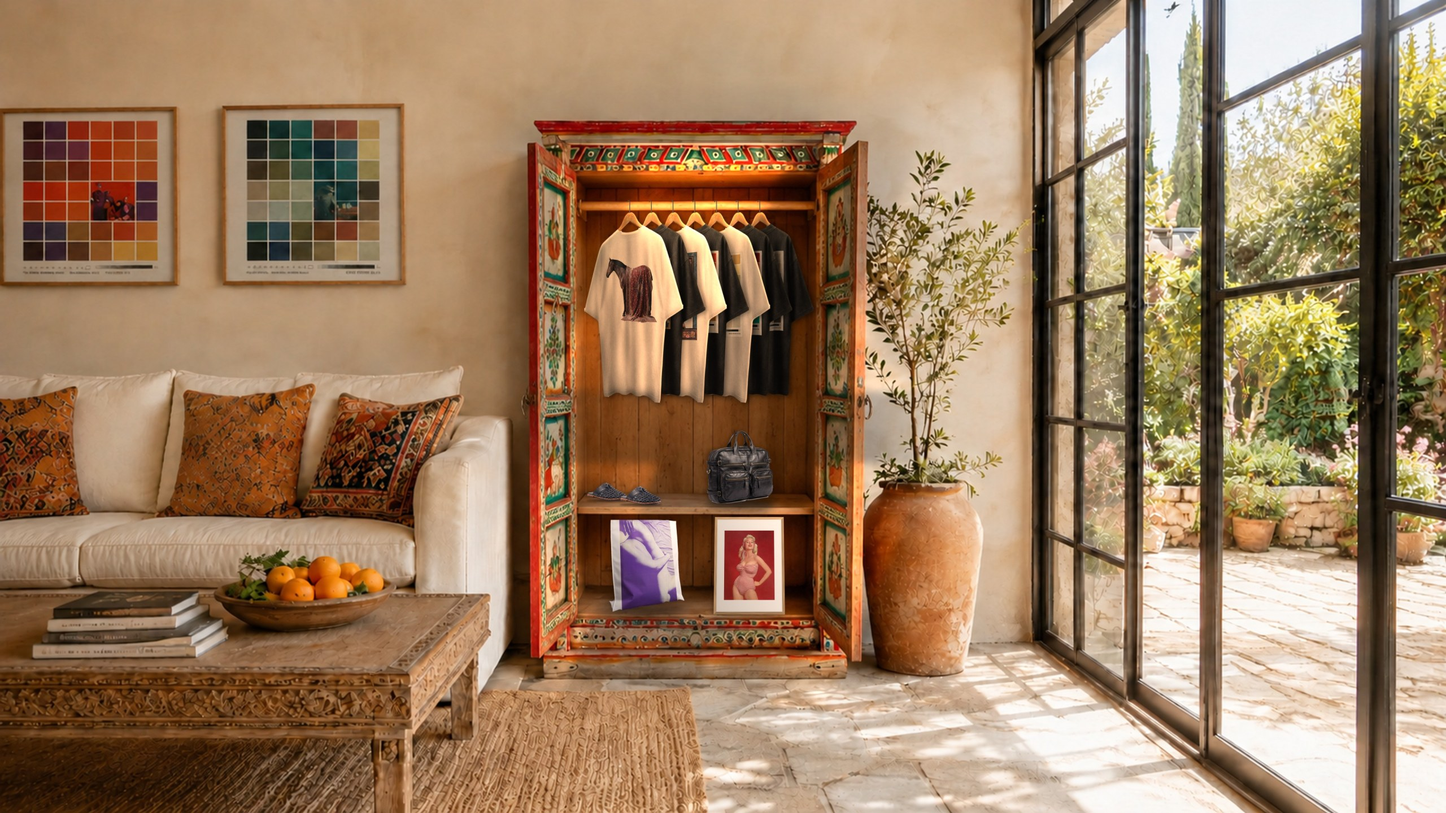
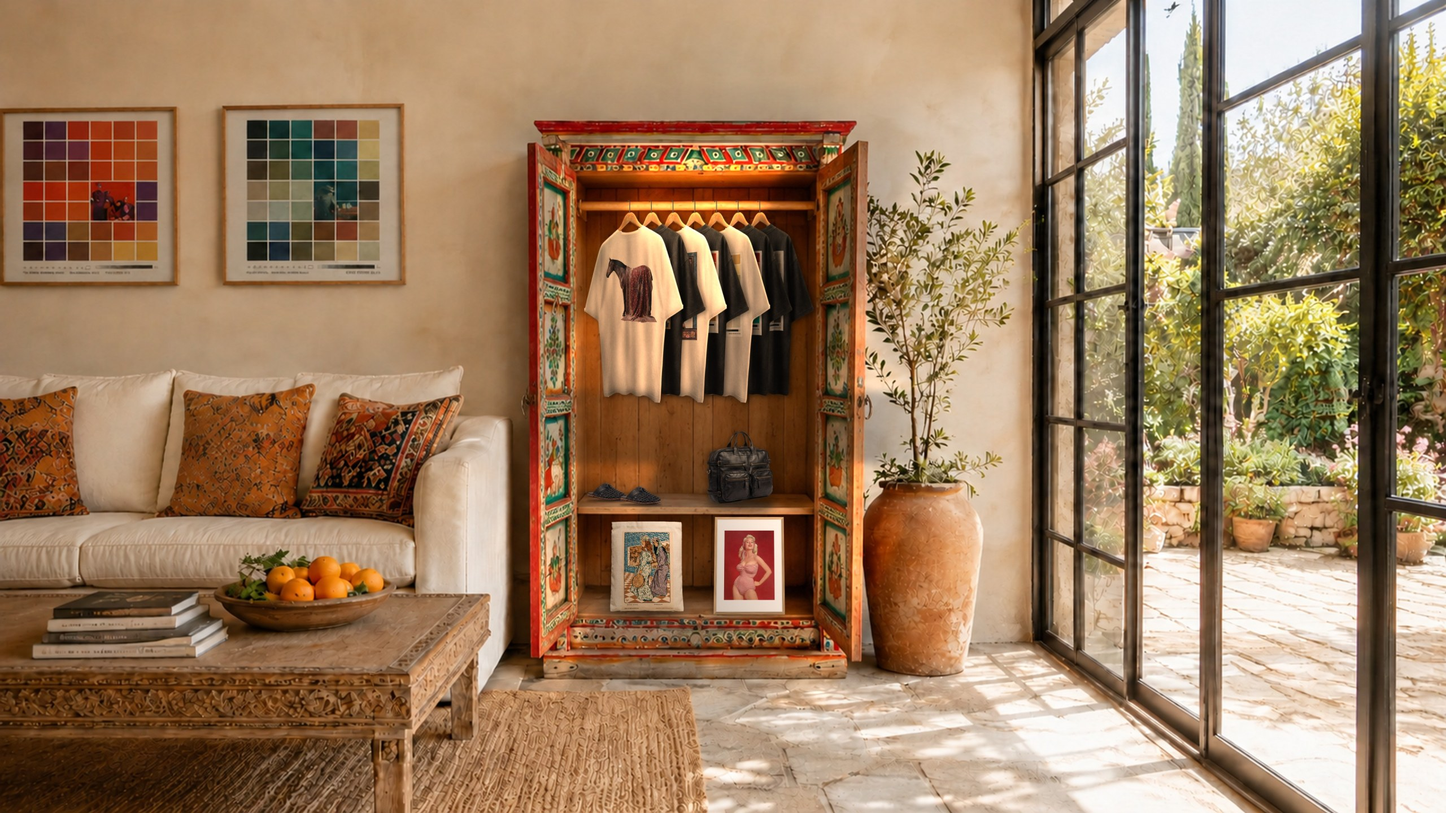
Clean Courier cutout + 4-view pull-out, darker warm-graded shoes, Schéhérazade tote in the wardrobe
Claude-Session: https://claude.ai/code/session_017Ju3v1Wm9qiCWbJhr3avMd

Changed region(s): [[0.4062, 0.5938, 0.5, 0.75], [0.5, 0.5312, 0.5312, 0.5938]]

diff --git a/index.html b/index.html
@@ -80,7 +80,7 @@
     </div>
   </div>
 </section>
-<script>window.WR_META={"horse": {"i": 0, "x": 0.09375, "y": 0.13815789473684212, "w": 0.34649122807017546, "h": 0.38095238095238093}, "mughal": {"i": 1, "x": 0.17050438596491227, "y": 0.13815789473684212, "w": 0.3470394736842105, "h": 0.3668546365914787}, "roses": {"i": 2, "x": 0.2450657894736842, "y": 0.13815789473684212, "w": 0.3470394736842105, "h": 0.3806390977443609}, "budapest": {"i": 3, "x": 0.3223684210526316, "y": 0.13815789473684212, "w": 0.3470394736842105, "h": 0.36654135338345867}, "nighthawks": {"i": 4, "x": 0.3969298245614035, "y": 0.13815789473684212, "w": 0.34649122807017546, "h": 0.3806390977443609}, "vertigo": {"i": 5, "x": 0.47368421052631576, "y": 0.13815789473684212, "w": 0.3470394736842105, "h": 0.3668546365914787}, "wave": {"i": 6, "x": 0.5493421052631579, "y": 0.13815789473684212, "w": 0.3470394736842105, "h": 0.3668546365914787}, "shoes": {"i": 7, "x": 0.10416666666666667, "y": 0.6785714285714286, "w": 0.25877192982456143, "h": 0.043859649122807015}, "tote": {"i": 8, "x": 0.18201754385964913, "y": 0.7528195488721805, "w": 0.26206140350877194, "h": 0.18327067669172933}, "print": {"i": 9, "x": 0.5455043859649122, "y": 0.7468671679197995, "w": 0.2505482456140351, "h": 0.19517543859649122}, "bag": {"i": 10, "x": 0.5213815789473685, "y": 0.574874686716792, "w": 0.23355263157894737, "h": 0.1450501253132832}};</script>
+<script>window.WR_META={"horse": {"i": 0, "x": 0.09375, "y": 0.13815789473684212, "w": 0.34649122807017546, "h": 0.38095238095238093}, "mughal": {"i": 1, "x": 0.17050438596491227, "y": 0.13815789473684212, "w": 0.3470394736842105, "h": 0.3668546365914787}, "roses": {"i": 2, "x": 0.2450657894736842, "y": 0.13815789473684212, "w": 0.3470394736842105, "h": 0.3806390977443609}, "budapest": {"i": 3, "x": 0.3223684210526316, "y": 0.13815789473684212, "w": 0.3470394736842105, "h": 0.36654135338345867}, "nighthawks": {"i": 4, "x": 0.3969298245614035, "y": 0.13815789473684212, "w": 0.34649122807017546, "h": 0.3806390977443609}, "vertigo": {"i": 5, "x": 0.47368421052631576, "y": 0.13815789473684212, "w": 0.3470394736842105, "h": 0.3668546365914787}, "wave": {"i": 6, "x": 0.5493421052631579, "y": 0.13815789473684212, "w": 0.3470394736842105, "h": 0.3668546365914787}, "shoes": {"i": 7, "x": 0.10416666666666667, "y": 0.6785714285714286, "w": 0.25877192982456143, "h": 0.043859649122807015}, "tote": {"i": 8, "x": 0.18475877192982457, "y": 0.7559523809523809, "w": 0.2565789473684211, "h": 0.18013784461152882}, "print": {"i": 9, "x": 0.5455043859649122, "y": 0.7468671679197995, "w": 0.2505482456140351, "h": 0.19517543859649122}, "bag": {"i": 10, "x": 0.5219298245614035, "y": 0.5758145363408521, "w": 0.2324561403508772, "h": 0.14411027568922305}};</script>
 
 <section class="intro" id="concept">
   <p class="section-eyebrow reveal">About ERATO</p>

diff --git a/js/wardrobe.js b/js/wardrobe.js
@@ -18,9 +18,9 @@
   ].map(t => Object.assign(t, { group:'tees', meta: t.col + ' \u00b7 USD 44', ar: 0.711, alt: t.name + ' t-shirt, back' }));
   const ITEMS = TEES.concat([
     { k:'shoes', slug:'loom',         name:'Loom',         col:'Mule', tone:'light', group:'shelf', meta:'100% natural leather, handmade \u00b7 USD 275', ar:1.32, alt:'Loom woven leather mules' },
-    { k:'tote',  slug:'marble-study', name:'Marble Study', col:'Tote', tone:'dark',  group:'floor', meta:'100% cotton tote \u00b7 USD 18', ar:0.543, alt:'Marble Study tote bag' },
+    { k:'tote',  slug:'scheherazade', name:'Sch\u00e9h\u00e9razade', col:'Tote', tone:'light', group:'floor', meta:'100% cotton tote \u00b7 USD 18', ar:0.634, alt:'Sch\u00e9h\u00e9razade cotton tote bag' },
     { k:'print', slug:'riviera', name:'Riviera', col:'Print', tone:'light', group:'floor', meta:'Framed print \u00b7 from USD 59', ar:0.726, alt:'Riviera framed print' },
-    { k:'bag', slug:'courier', name:'Courier', col:'Bag', tone:'light', group:'shelf', meta:'Handmade leather briefcase \u00b7 USD 320', ar:0.920, alt:'Courier black leather briefcase' }
+    { k:'bag', slug:'courier', name:'Courier', col:'Bag', tone:'light', group:'shelf', meta:'Handmade leather briefcase \u00b7 USD 320', ar:1.0, alt:'Courier black leather briefcase, four views' }
   ]);
   const href = t => 'product-' + t.slug + '.html';
   const RACK = { x: 0.38542, y: 0.17593, w: 0.19792, h: 0.61574 };

diff --git a/product-scheherazade.html b/product-scheherazade.html
@@ -35,10 +35,16 @@
 <a class="back-link" href="accessories.html">&larr; Back to Accessories</a>
 
 <div class="product-detail">
-  <div class="piece-frame"><img src="assets/products/scheherazade-tote.jpg" alt="Schéhérazade — ERATO tote"></div>
+  <div class="gallery">
+    <div class="piece-frame"><img id="mainShot" src="assets/products/scheherazade-tote2.jpg" alt="Schéhérazade — ERATO cotton tote"></div>
+    <div class="thumbs">
+      <button class="thumb active" data-src="assets/products/scheherazade-tote2.jpg" aria-label="Gallery view"><img src="assets/products/scheherazade-tote2.jpg" alt=""></button>
+      <button class="thumb" data-src="assets/products/scheherazade-tote.jpg" aria-label="Second view"><img src="assets/products/scheherazade-tote.jpg" alt=""></button>
+    </div>
+  </div>
   <div class="plaque">
     <h1 class="plaque-title">Schéhérazade</h1>
-    <p class="plaque-medium">Cotton canvas, screenprint · Natural</p>
+    <p class="plaque-medium">100% cotton canvas · 38 × 42 cm</p>
     <div class="plaque-sizes">
       <button class="size-btn active">One Size</button>
     </div>

diff --git a/accessories.html b/accessories.html
@@ -68,7 +68,7 @@
   </a>
 
   <a class="piece" href="product-scheherazade.html">
-    <div class="piece-frame"><img src="assets/products/scheherazade-tote.jpg" alt="Schéhérazade — ERATO tote"></div>
+    <div class="piece-frame"><img src="assets/products/scheherazade-tote2.jpg" alt="Schéhérazade — ERATO tote"></div>
     <div class="plaque-preview">
       <h3>Schéhérazade</h3>
       <span class="price">USD 18</span>

diff --git a/CLAUDE.md b/CLAUDE.md
@@ -10,7 +10,7 @@ Owner: Ali (Layer Nine / ERATO). Currency: USD. Tees USD 44, totes USD 24, print
 - Local preview: `python3 -m http.server 8767` from repo root (wardrobe hover needs http, not file://).
 
 ## Hero (index.html + js/wardrobe.js)
-Flow now: closed → click → doors open (NO zoom) → click an item (tee/tote/shoes) zooms to its group (tees / shelf / floor) → click item = pull-out dialog. Items: 7 tees, shoes (Loom, USD 275, 100% natural leather handmade; cow/python/crocodile options, black/navy/redbrown variants in assets/products/loom-*.jpg) and tote (Marble Study, USD 18, 38x42cm cotton) both on the shelf, real scale (~4.3 native px per cm). label.png values = (index+1)*23 (JS divides by 23); ITEMS order must match: tees 0-6, shoes 7, tote 8, framed print (Riviera) 9, Courier bag 10 (USD 320 placeholder). Layout: shoes on shelf in sun; tote + framed print stand in the bottom compartment (lit). Real scale ~4.3 native px/cm (hang17.py in scratchpad; shoes + Courier bag on shelf, tote 1.5x + framed print in bottom compartment). Rack overlay covers world y .17593–.7917 (h .61574).
+Flow now: closed → click → doors open (NO zoom) → click an item (tee/tote/shoes) zooms to its group (tees / shelf / floor) → click item = pull-out dialog. Items: 7 tees, shoes (Loom, USD 275, 100% natural leather handmade; cow/python/crocodile options, black/navy/redbrown variants in assets/products/loom-*.jpg) and tote (Marble Study, USD 18, 38x42cm cotton) both on the shelf, real scale (~4.3 native px per cm). label.png values = (index+1)*23 (JS divides by 23); ITEMS order must match: tees 0-6, shoes 7, tote 8 (now Schéhérazade tote), framed print (Riviera) 9, Courier bag 10 (USD 320 placeholder). Layout: shoes on shelf in sun; tote + framed print stand in the bottom compartment (lit). Real scale ~4.3 native px/cm (hang18.py in scratchpad; shoes + Courier bag on shelf, tote 1.5x + framed print in bottom compartment). Rack overlay covers world y .17593–.7917 (h .61574).
 Closed 16:9 room photo → hover "open me" → doors part → rack of 7 tees → zoom → hover/click pulls tee out ("Buy me" / "Know me better") → product page.
 Assets in assets/hero/: closed.jpg, open.jpg (2560x1440), rack.jpg, label.png (hover lookup, value = (index+1)*30), layer-<key>.webp, pull-<key>.webp, meta.json.
 Constants in wardrobe.js: ASPECT 16/9, RACK {x:.38542,y:.17593,w:.19792,h:.46296}, TEES array (key, slug, name, colour, tone).
